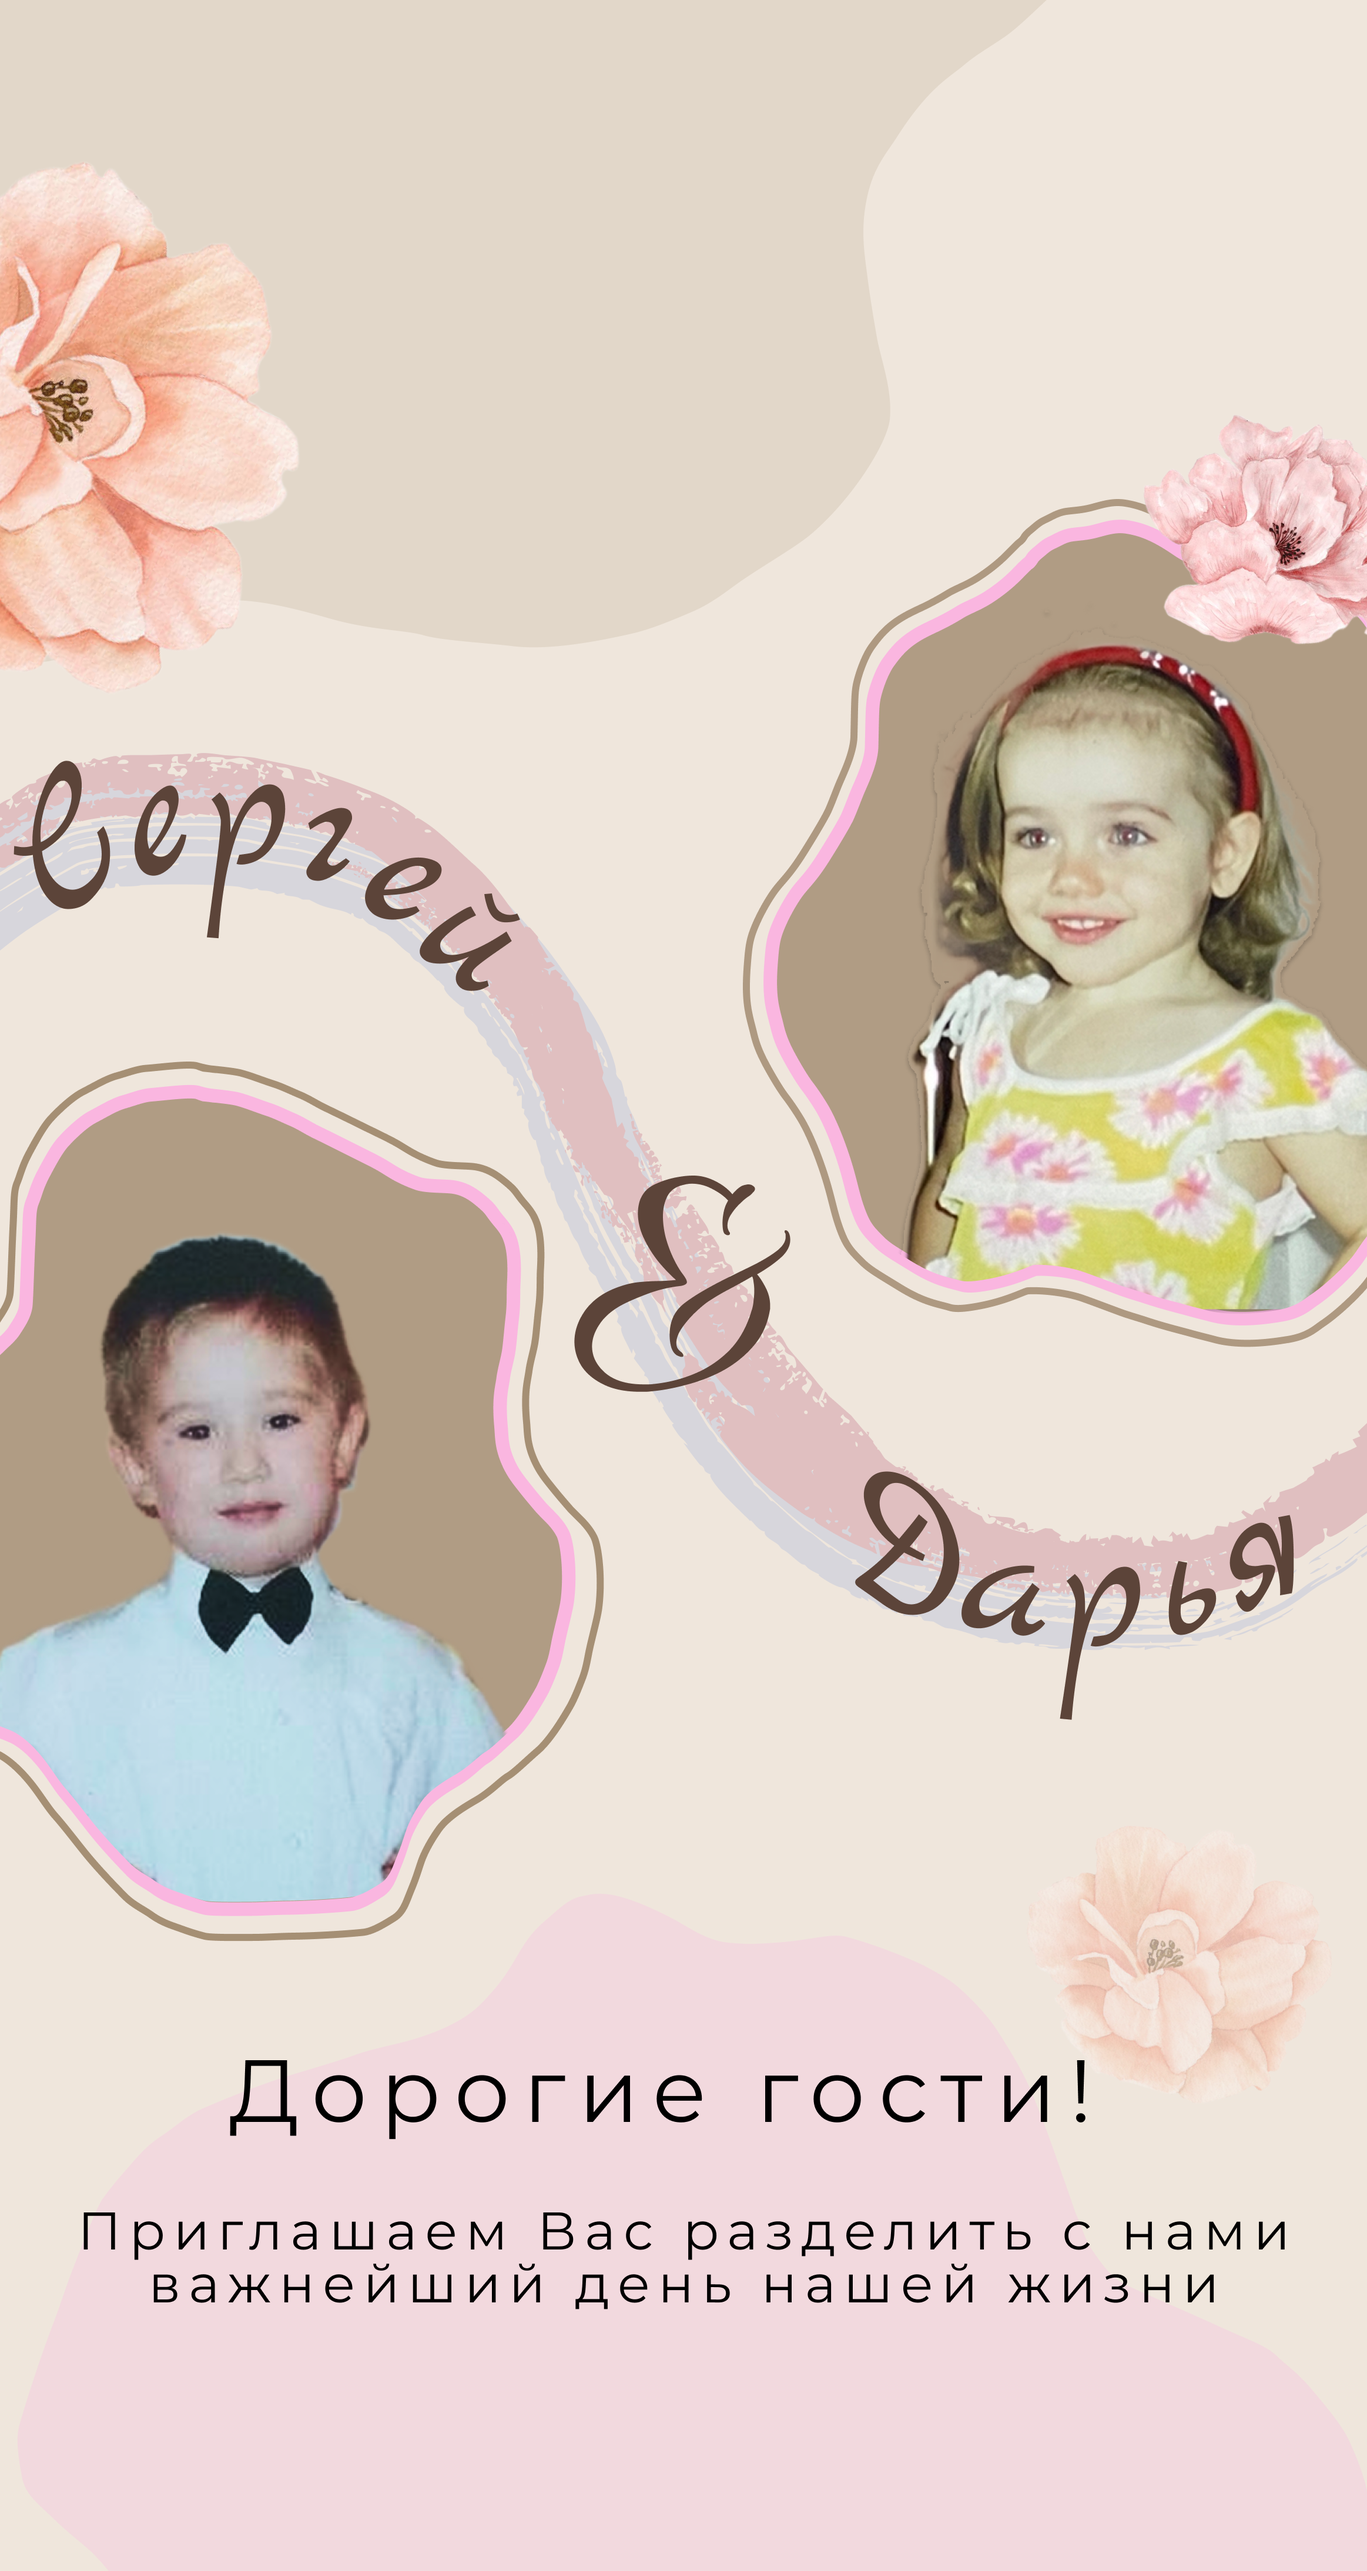
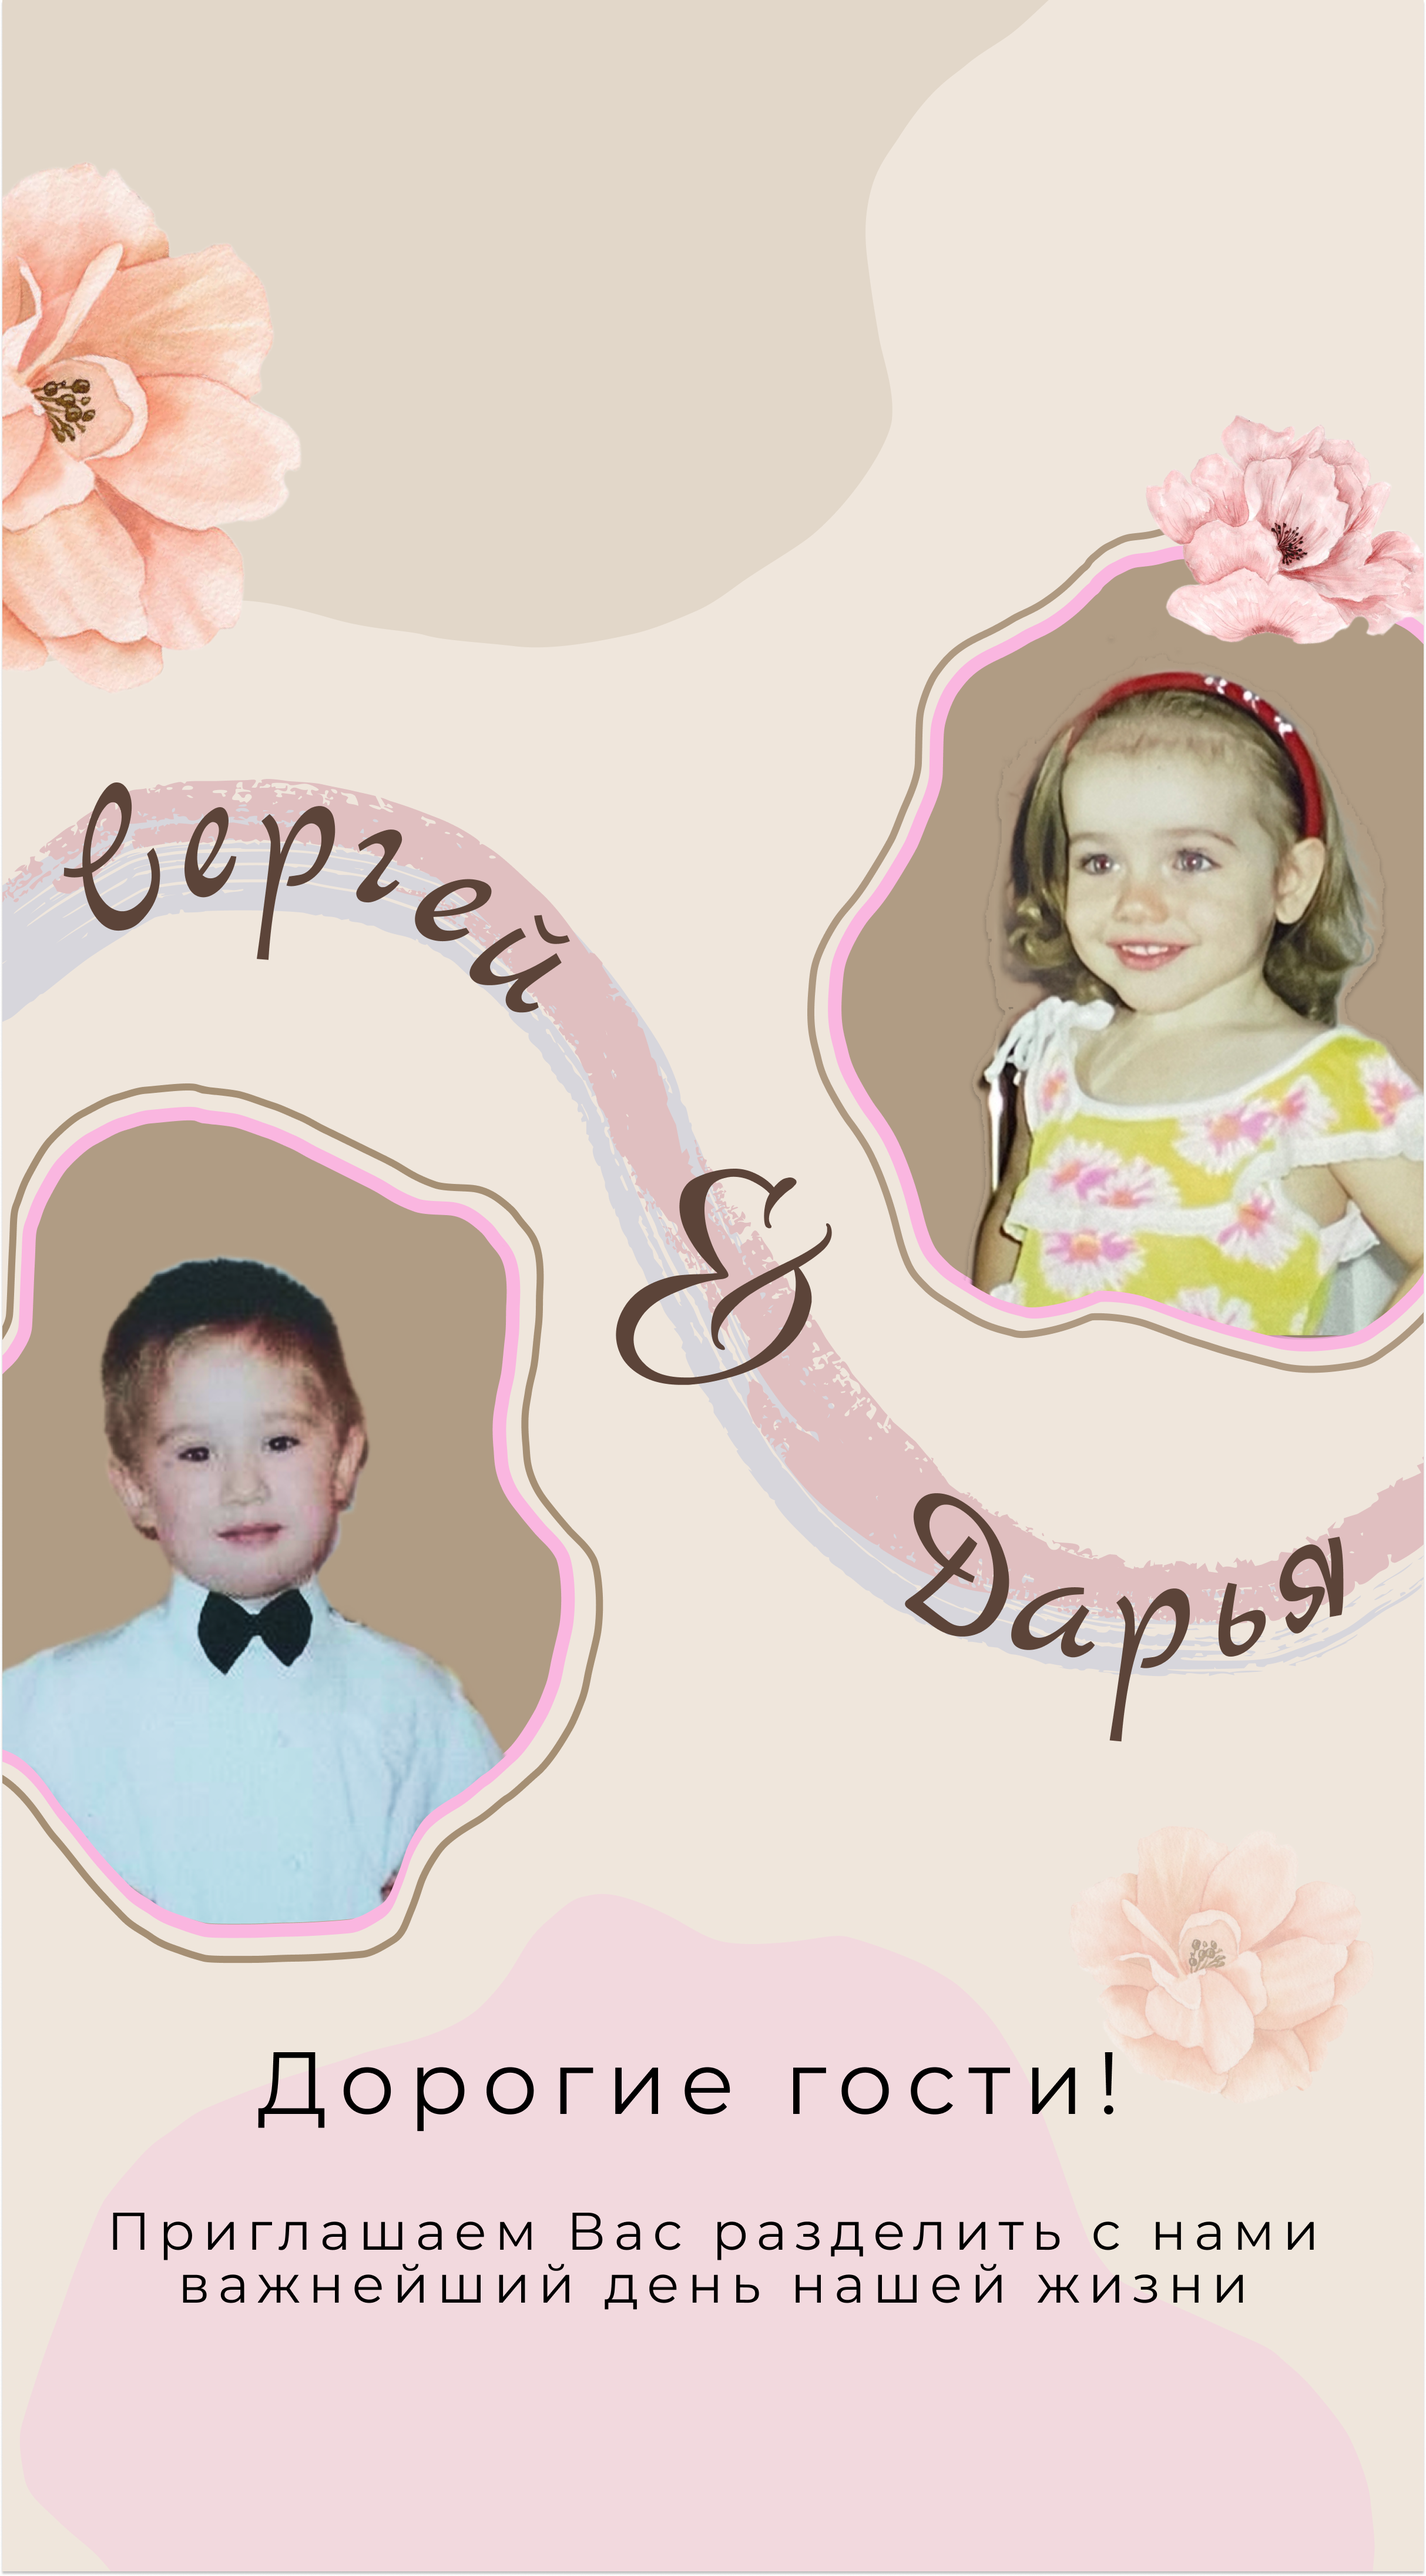
Обновил hero mobile, удалил блок деталей, обновил навигацию

diff --git a/src/App.tsx b/src/App.tsx
@@ -119,24 +119,6 @@ export default function App() {
         </div>
       </section>
 
-      {/* 5. DETAILS SECTION */}
-      <section id="details" className="section-wedding bg-wedding-secondary">
-        <div className="container-wedding text-center">
-          <div className="max-w-prose-wedding space-y-10">
-            <motion.h2 {...revealProps} className="text-3xl md:text-5xl font-serif mb-6">Детали</motion.h2>
-            <motion.div {...revealProps} className="space-y-8 text-wedding-muted leading-loose text-sm md:text-base">
-              <p>
-                Ваше присутствие на нашем празднике - самый главный подарок для нас.
-                Если вы планируете порадовать нас подарком, мы будем признательны за вклад в бюджет нашей будущей семьи.
-              </p>
-              <p>
-                Мы очень просим вас воздержаться от покупки цветов, так как сразу после торжества мы улетаем в свадебное путешествие и не успеем насладиться их красотой.
-              </p>
-            </motion.div>
-          </div>
-        </div>
-      </section>
-
       {/* 6. DRESS CODE SECTION */}
       <section id="dress-code" className="section-wedding bg-wedding-ivory">
         <div className="container-wedding text-center">
@@ -272,3 +254,4 @@ export default function App() {
     </div>
   );
 }
+

diff --git a/src/components/Navigation.tsx b/src/components/Navigation.tsx
@@ -12,7 +12,7 @@ export const Navigation: React.FC = () => {
       setScrolled(window.scrollY > 50);
 
       // Simple scroll spy
-      const sections = ['program', 'timer', 'location', 'details', 'dress-code', 'contacts', 'rsvp'];
+      const sections = ['program', 'timer', 'location', 'dress-code', 'contacts', 'rsvp'];
       const current = sections.find((section) => {
         const element = document.getElementById(section);
         if (element) {
@@ -31,7 +31,7 @@ export const Navigation: React.FC = () => {
     { label: 'Программа', href: '#program' },
     { label: 'Таймер', href: '#timer' },
     { label: 'Локация', href: '#location' },
-    { label: 'Детали', href: '#details' },
+    
     { label: 'Дресс-код', href: '#dress-code' },
     { label: 'Ведущий', href: '#contacts' },
     { label: 'Присутствие', href: '#rsvp' },
@@ -131,4 +131,5 @@ export const Navigation: React.FC = () => {
     </>
   );
 };
+
 

diff --git a/src/config/wedding.ts b/src/config/wedding.ts
@@ -50,7 +50,7 @@ export const WEDDING_CONFIG = {
       { name: "Коричневый", hex: "#5A4338" },
     ],
     menDescription:
-      "светлый верх, тёмный низ. Если есть костюм - отлично, если нет - подойдёт рубашка или водолазка и тёмные брюки. Желательно чёрный, тёмно-синий и коричневый цвета.",
+      "светлый верх, тёмный низ. Если есть костюм - отлично, если нет - подойдёт рубашка или поло и тёмные брюки. Желательно чёрный, тёмно-синий и коричневый цвета.",
   },
   contacts: {
     host: {
@@ -67,4 +67,5 @@ export const WEDDING_CONFIG = {
     rsvp: `${import.meta.env.BASE_URL}images/para.webp`,
   },
 };
+
 
